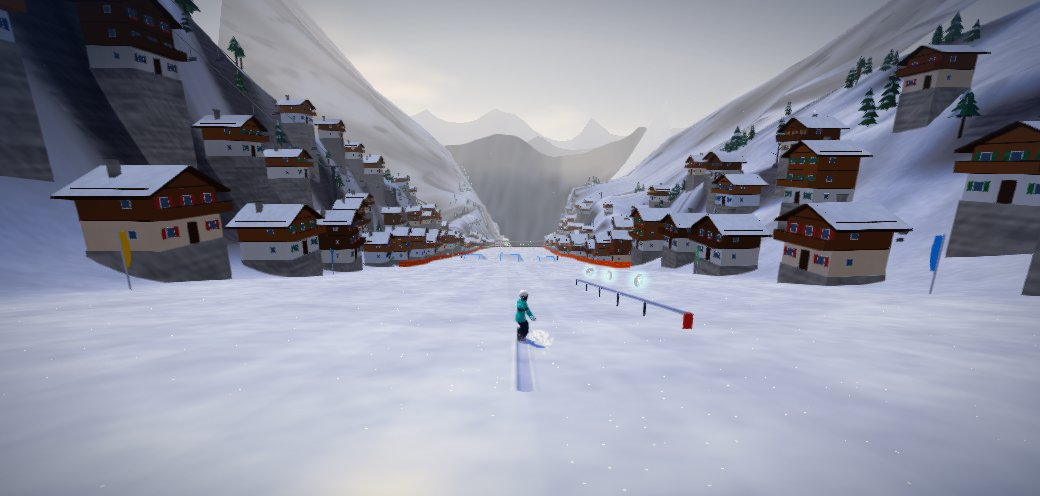
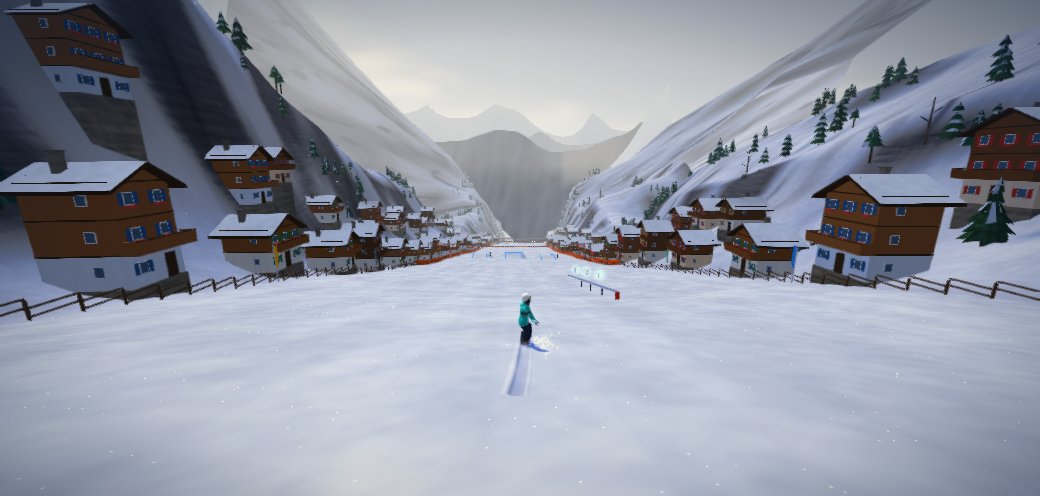
Stellhorn: a village that looks built
- Wide, flat valley floor so the chalets sit level in two tidy rows,
  built into the slope (no tall stone plinths); darker stone bases
- A wooden fence along both sides of the street
- Red-and-white flags instead of rainbow bunting
- Softer, lower peaks behind the village; no chairlift over the village
- New course picture

Claude-Session: https://claude.ai/code/session_015yJMtPd3AUaUP9NNaQQf43

diff --git a/public/js/world.js b/public/js/world.js
@@ -784,7 +784,7 @@
           const u = off * 0.7 + z * 0.35, v = z * 0.7 - off * 0.28;
           y += mk * (e < 0 ? 1 : 1 - e / 3) * 0.46 * (Math.sin(u) * Math.sin(v) + 0.2 * Math.sin(u * 0.5 + 1.3));
         }
-        vk = this.sample(this.vilArr, z);
+        vk = this.map.village ? 1 : this.sample(this.vilArr, z);
       }
       if (e > 0 && this.map.open) {
         // a stadium: low banks, then a flat arena around the course
@@ -801,17 +801,19 @@
         // how steep the bank climbs changes along the run and differs left and right: narrow gullies, open bowls
         const steep = 0.05 * (0.62 + 0.4 * Math.sin(z * 0.0083 + sd * 2.9 + this.pr) + 0.12 * Math.sin(z * 0.029 - sd));
         // in the village the valley floor opens out into gentle terraces for the chalets
-        const vf = vk > 0 ? 1 - vk * 0.78 * (eb < 45 ? 1 : Math.max(0, 1 - (eb - 45) / 40)) : 1;
+        const vfe = this.map.village ? 75 : 45, vfw = this.map.village ? 60 : 40;
+        const vf = vk > 0 ? 1 - vk * (this.map.village ? 0.92 : 0.78) * (eb < vfe ? 1 : Math.max(0, 1 - (eb - vfe) / vfw)) : 1;
+        const vm = this.map.village ? 0.45 : 1; // the village sits in a wide valley: softer shoulders and peaks
         y += vf * (lerp(steep, 0.13, ck) * ee * ee + (eb > 38 ? (eb - 38) * wall * lerp(steep / 0.05, 1, ck) : 0));
         const k1 = Math.min(1, eb / 15) * (1 - ck * 0.7) * vf;
         y += k1 * (4 * Math.sin(x * 0.045 + z * 0.02) + 2.5 * Math.sin(z * 0.07 + x * 0.03));
         // ridges and gullies running down the banks, and big shoulders further out
         y += vf * Math.min(1, eb / 22) * (1 - ck) * 2.6 * Math.sin(x * 0.12 + z * 0.045) * Math.sin(z * 0.031 - x * 0.017 + sd);
-        if (eb > 24) y += Math.min(1, (eb - 24) / 30) * (1 - ck) * (9 * Math.sin(z * 0.0135 + x * 0.019 + sd) + 4 * Math.sin(z * 0.041 - x * 0.011));
+        if (eb > 24) y += (this.map.village ? vf : 1) * Math.min(1, (eb - 24) / 30) * (1 - ck) * (9 * Math.sin(z * 0.0135 + x * 0.019 + sd) + 4 * Math.sin(z * 0.041 - x * 0.011));
         // the rim of the valley rises into peaks and drops into saddles, so it never runs dead straight
         if (eb > 50) {
           const rimK = Math.min(1, (eb - 50) / 45) * (1 - ck);
-          y += rimK * (34 * Math.sin(z * 0.0071 + sd * 1.9 + this.pr) + 20 * Math.sin(z * 0.0187 - sd) + 9 * Math.sin(z * 0.052 + x * 0.013) - 22);
+          y += vm * rimK * (34 * Math.sin(z * 0.0071 + sd * 1.9 + this.pr) + 20 * Math.sin(z * 0.0187 - sd) + 9 * Math.sin(z * 0.052 + x * 0.013) - 22);
         }
       }
       return y;
@@ -1765,7 +1767,7 @@
       // chairlift up one bank (not over the cave)
       const ls = r() < 0.5 ? -1 : 1;
       if (!M.resort) this.liftSide = ls;
-      for (let z = C.Z0 + 20; z < C.ZMAX && !M.resort; z += 65) {
+      for (let z = C.Z0 + 20; z < C.ZMAX && !M.resort && !M.village; z += 65) {
         if (this.cave && z > this.cave[0] - 60 && z < this.cave[1] + 60) continue;
         const x = this.center(z) + ls * (HALF + 30);
         this.liftTowers.push({ x, z, gy: this.ground(x, z) });
@@ -1905,7 +1907,13 @@
           if (z > C.LENGTH - 14 && z < C.LENGTH + 14) continue;
           spot(side, R(5, 7.5), z, {});
           if (r() < 0.85) spot(side, R(19, 26), z + R(-5, 5), {});
-          if (r() < 0.6) spot(side, R(33, 44), z + R(-8, 8), { floors: 2 });
+        }
+      }
+      this.fences = [];
+      for (const side of [-1, 1]) {
+        for (let z = 30; z < C.LENGTH - 6; z += 2.6) {
+          const xa = this.center(z) + side * (HALF + 1.6), xb = this.center(z + 2.6) + side * (HALF + 1.6);
+          this.fences.push({ x: xa, z, x1: xb, z1: z + 2.6, side });
         }
       }
       for (let z = 160; z < C.LENGTH - 40; z += R(120, 170)) {
@@ -2359,6 +2367,7 @@
       for (const n of this.nets) add(n.z0, { k: 'net', o: n });
       for (const h of this.huts) add(h.z, { k: 'hut', o: h });
       for (const h of this.chalets || []) add(h.z, { k: 'chalet', o: h });
+      for (const f of this.fences || []) add(f.z, { k: 'fence', o: f });
       for (const b of this.buntings || []) add(b.z, { k: 'bunting', o: b });
       for (const g of this.guns || []) add(g.z, { k: 'gun', o: g });
       for (const g of this.signs || []) add(g.z, { k: 'sign', o: g });
@@ -2411,6 +2420,7 @@
           case 'hut': B.hut(o); break;
           case 'chalet': B.chalet(o); ch.maxZ = Math.max(ch.maxZ, o.z + 12); ch.minZ = Math.min(ch.minZ, o.z - 12); break;
           case 'bunting': B.bunting(o); break;
+          case 'fence': B.fence(o); break;
           case 'gun': B.gun(o); break;
           case 'sign': B.sign(o); break;
           case 'stand': B.stand(o); ch.maxZ = Math.max(ch.maxZ, o.z + 14); ch.minZ = Math.min(ch.minZ, o.z - 14); break;
@@ -3792,10 +3802,11 @@
         const g = w.ground(h.x + u * c + v * s, h.z - u * s + v * c);
         lo = Math.min(lo, g); hi = Math.max(hi, g);
       }
-      const gy = hi - 0.15;
+      // in the village the houses are built into the slope: the uphill side sits in the snow
+      const gy = w.map.village ? lo + (hi - lo) * 0.4 : hi - 0.15;
       const P = (x, y, z) => [h.x + x * c + z * s, gy + y, h.z - x * s + z * c];
       const B = (x, y, z, hx, hy, hz, col) => { const p = P(x, y, z); this.box(p[0], p[1], p[2], hx, hy, hz, h.yaw, col); };
-      const pal = h.pal, stone = [0.55, 0.55, 0.56], dark = [0.2, 0.13, 0.08], snowc = [0.96, 0.98, 1.0];
+      const pal = h.pal, stone = w.map.village ? [0.42, 0.4, 0.38] : [0.55, 0.55, 0.56], dark = [0.2, 0.13, 0.08], snowc = [0.96, 0.98, 1.0];
       const glass = [0.24, 0.34, 0.48], frame = [0.95, 0.94, 0.9];
       const base = lo - gy - 0.4;
       B(0, (base + 0.8) / 2, 0, W + 0.1, (0.8 - base) / 2, D + 0.1, stone);
@@ -3913,12 +3924,22 @@
     }
 
     // bunting: a line of little flags strung across the piste between two poles
+    // a section of wooden fence: a post, and two rails over to the next one
+    fence(f) {
+      const w = this.w, wood = [0.3, 0.2, 0.13];
+      const g0 = w.ground(f.x, f.z), g1 = w.ground(f.x1, f.z1);
+      this.box(f.x, g0 + 0.55, f.z, 0.06, 0.6, 0.06, 0, wood);
+      const len = Math.hypot(f.x1 - f.x, f.z1 - f.z), yaw = Math.atan2(f.x1 - f.x, f.z1 - f.z);
+      const xm = (f.x + f.x1) / 2, zm = (f.z + f.z1) / 2, gm = (g0 + g1) / 2;
+      for (const h of [0.45, 0.95]) this.box(xm, gm + h, zm, 0.03, 0.05, len / 2, yaw, wood);
+    }
+
     bunting(b) {
       const w = this.w;
       const g0 = w.ground(b.x0, b.z), g1 = w.ground(b.x1, b.z);
       const y0 = g0 + 7.5, y1 = g1 + 7.5;
       for (const [x, g] of [[b.x0, g0], [b.x1, g1]]) this.box(x, g + 3.9, b.z, 0.09, 4.0, 0.09, 0, [0.86, 0.86, 0.9]);
-      const cols = [[0.95, 0.2, 0.18], [1.0, 0.78, 0.1], [0.12, 0.5, 0.95], [0.2, 0.78, 0.38], [0.98, 0.98, 1.0]];
+      const cols = w.map.village ? [[0.68, 0.14, 0.13], [0.94, 0.94, 0.92]] : [[0.95, 0.2, 0.18], [1.0, 0.78, 0.1], [0.12, 0.5, 0.95], [0.2, 0.78, 0.38], [0.98, 0.98, 1.0]];
       const n = Math.round((b.x1 - b.x0) / 0.9);
       const yAt = (k) => lerp(y0, y1, k) - Math.sin(k * Math.PI) * 1.4;
       let px = b.x0, py = y0;
